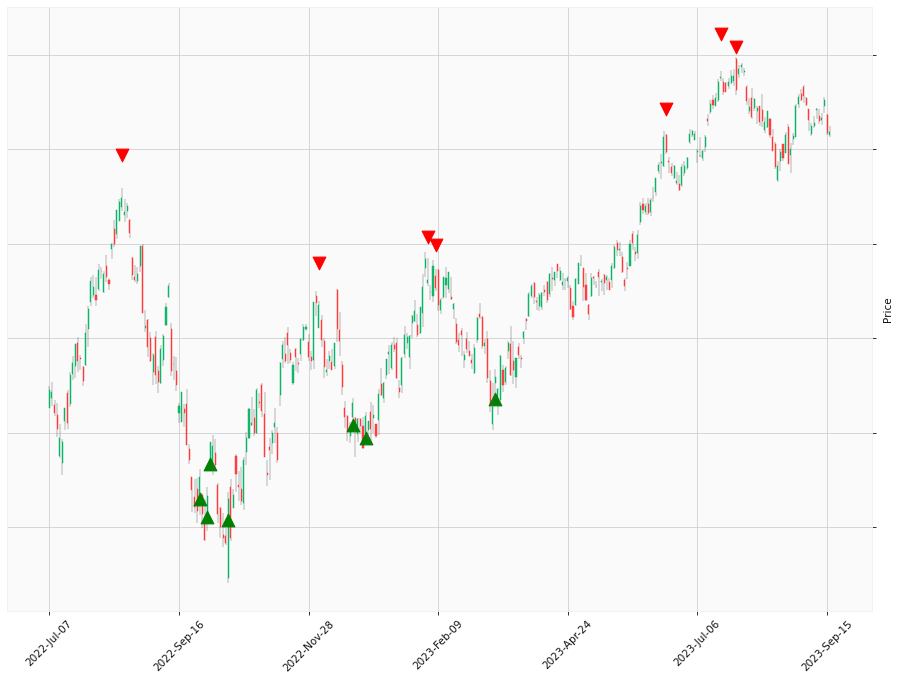
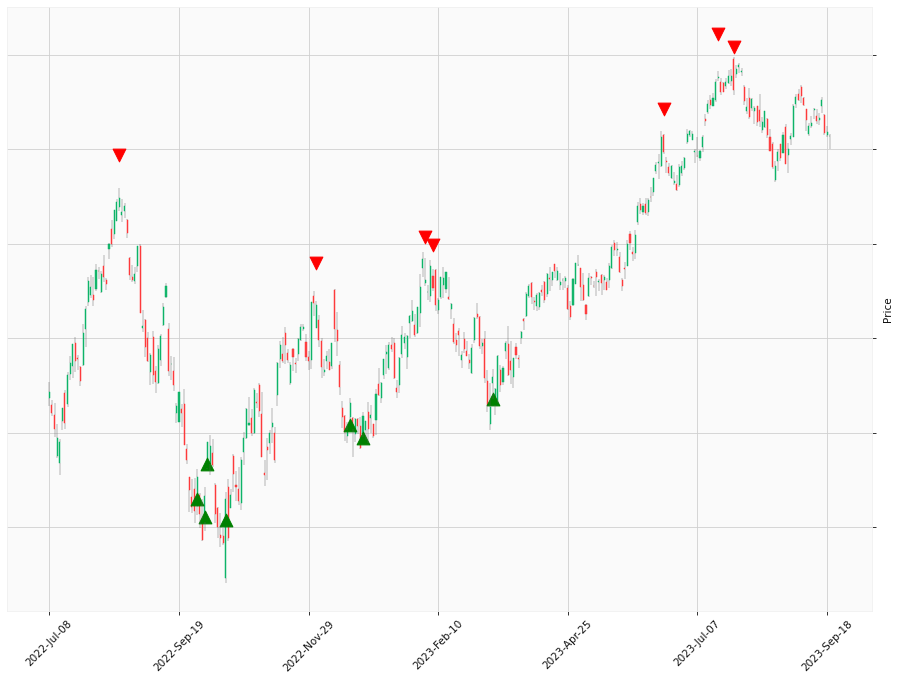
See https://github.com/HappyLabz/HappyLabz_v1/commit/d0e2ac6c34a9aaead226d4639160bddcce6f0603 from refs/heads/main

diff --git a/index.md b/index.md
@@ -101,7 +101,7 @@
         <h2 id="aapl"><a href="{% link navigation/blocked.md %}">AAPL</a></h2>
         <ul>
             <li>DAY: <b><span style="color: #b91c1c;">Short</span></b> at 177.56 as of close <br>Sep 07 2023</li>
-            <li>DELTA: <b><span style="color: #167816;">0.43 (0.24%)</span></b> as of close<br>Sep 18 2023</li>
+            <li>DELTA: <b><span style="color: #167816;">0.43 (0.24%)</span></b> as of close<br>Sep 19 2023</li>
             <li>WEEK: <b><span style="color: #167816;">Long</span></b> at 134.76 as of close <br>Jan 13 2023</li>
         </ul>
     </div>
@@ -109,7 +109,7 @@
         <h2 id="amzn"><a href="{% link navigation/blocked.md %}">AMZN</a></h2>
         <ul>
             <li>DAY: <b><span style="color: #b91c1c;">Short</span></b> at 139.98 as of close <br>Sep 18 2023</li>
-            <li>DELTA: <b><span style="color: #b91c1c;">0.00 (0.00%)</span></b> as of close<br>Sep 18 2023</li>
+            <li>DELTA: <b><span style="color: #b91c1c;">0.00 (0.00%)</span></b> as of close<br>Sep 19 2023</li>
             <li>WEEK: <b><span style="color: #167816;">Long</span></b> at 98.12 as of close <br>Jan 13 2023</li>
         </ul>
     </div>
@@ -117,7 +117,7 @@
         <h2 id="msft"><a href="{% link navigation/blocked.md %}">MSFT</a></h2>
         <ul>
             <li>DAY: <b><span style="color: #b91c1c;">Short</span></b> at 338.05 as of close <br>Jun 20 2023</li>
-            <li>DELTA: <b><span style="color: #b91c1c;">-8.99 (-2.66%)</span></b> as of close<br>Sep 18 2023</li>
+            <li>DELTA: <b><span style="color: #b91c1c;">-8.99 (-2.66%)</span></b> as of close<br>Sep 19 2023</li>
             <li>WEEK: <b><span style="color: #167816;">Long</span></b> at 241.22 as of close <br>Nov 18 2022</li>
         </ul>
     </div>
@@ -125,7 +125,7 @@
         <h2 id="tsla"><a href="{% link TSLA.md %}">TSLA <span style="color:#0369a1;">&bigstar;</span></a></h2>
         <ul>
             <li>DAY: <b><span style="color: #b91c1c;">Short</span></b> at 256.60 as of close <br>Jun 23 2023</li>
-            <li>DELTA: <b><span style="color: #167816;">8.61 (3.36%)</span></b> as of close<br>Sep 18 2023</li>
+            <li>DELTA: <b><span style="color: #167816;">9.83 (3.83%)</span></b> as of close<br>Sep 19 2023</li>
             <li>WEEK: <b><span style="color: #167816;">Long</span></b> at 177.90 as of close <br>Jan 27 2023</li>
         </ul>
     </div>
@@ -133,7 +133,7 @@
         <h2 id="spy"><a href="{% link navigation/blocked.md %}">SPY</a></h2>
         <ul>
             <li>DAY: <b><span style="color: #b91c1c;">Short</span></b> at 452.49 as of close <br>Jul 27 2023</li>
-            <li>DELTA: <b><span style="color: #b91c1c;">-8.85 (-1.96%)</span></b> as of close<br>Sep 18 2023</li>
+            <li>DELTA: <b><span style="color: #b91c1c;">-9.74 (-2.15%)</span></b> as of close<br>Sep 19 2023</li>
             <li>WEEK: <b><span style="color: #167816;">Long</span></b> at 374.29 as of close <br>Oct 21 2022</li>
         </ul>
     </div>

diff --git a/TSLA.md b/TSLA.md
@@ -88,9 +88,9 @@
         <td>7</td>
         <td>Short</td>
         <td>Jun 23 2023 Close</td>
-        <td>3.36 %</td>
-        <td>195.24 %</td>
-        <td>369.87 %</td>
+        <td>3.83 %</td>
+        <td>194.76 %</td>
+        <td>367.56 %</td>
     </tr>
     
 </table>
@@ -106,23 +106,23 @@
     <tbody>
         <tr>
             <td>TSLA (Buy and Hold)</td>
-            <td>2022-08-05 Close <b>-</b> 2023-09-18 Close</td>
-            <td>-7.97 %</td>
+            <td>2022-08-05 Close <b>-</b> 2023-09-19 Close</td>
+            <td>-7.54 %</td>
         </tr>
         <tr>
             <td>TSLA (HLT Cumulative % Gain)</td>
-            <td>2022-08-05 Close <b>-</b> 2023-09-18 Close</td>
-            <td>195.24 %</td>
+            <td>2022-08-05 Close <b>-</b> 2023-09-19 Close</td>
+            <td>194.76 %</td>
         </tr>
         <tr>
             <td>TSLA (HLT Reinvested % Gain)</td>
-            <td>2022-08-05 Close <b>-</b> 2023-09-18 Close</td>
-            <td>369.87 %</td>
+            <td>2022-08-05 Close <b>-</b> 2023-09-19 Close</td>
+            <td>367.56 %</td>
         </tr>
         <tr>
             <td>S&P 500 (Buy and Hold)</td>
-            <td>2022-08-05 Close <b>-</b> 2023-09-18 Close</td>
-            <td>7.30 %</td>
+            <td>2022-08-05 Close <b>-</b> 2023-09-19 Close</td>
+            <td>7.08 %</td>
         </tr>
     </tbody>
 </table>

diff --git a/SPY.md b/SPY.md
@@ -144,9 +144,9 @@
         <td>14</td>
         <td>Short</td>
         <td>Jul 27 2023 Close</td>
-        <td>-1.96 %</td>
-        <td>51.90 %</td>
-        <td>63.34 %</td>
+        <td>-2.15 %</td>
+        <td>52.09 %</td>
+        <td>63.65 %</td>
     </tr>
     
 </table>
@@ -162,23 +162,23 @@
     <tbody>
         <tr>
             <td>SPY (Buy and Hold)</td>
-            <td>2022-08-16 Close <b>-</b> 2023-09-18 Close</td>
-            <td>3.24 %</td>
+            <td>2022-08-16 Close <b>-</b> 2023-09-19 Close</td>
+            <td>3.04 %</td>
         </tr>
         <tr>
             <td>SPY (HLT Cumulative % Gain)</td>
-            <td>2022-08-16 Close <b>-</b> 2023-09-18 Close</td>
-            <td>51.90 %</td>
+            <td>2022-08-16 Close <b>-</b> 2023-09-19 Close</td>
+            <td>52.09 %</td>
         </tr>
         <tr>
             <td>SPY (HLT Reinvested % Gain)</td>
-            <td>2022-08-16 Close <b>-</b> 2023-09-18 Close</td>
-            <td>63.34 %</td>
+            <td>2022-08-16 Close <b>-</b> 2023-09-19 Close</td>
+            <td>63.65 %</td>
         </tr>
         <tr>
             <td>S&P 500 (Buy and Hold)</td>
-            <td>2022-08-16 Close <b>-</b> 2023-09-18 Close</td>
-            <td>3.24 %</td>
+            <td>2022-08-16 Close <b>-</b> 2023-09-19 Close</td>
+            <td>3.04 %</td>
         </tr>
     </tbody>
 </table>

diff --git a/AMZN_1w.md b/AMZN_1w.md
@@ -146,7 +146,7 @@
         <tr>
             <td>S&P 500 (Buy and Hold)</td>
             <td>2018-09-07 Close <b>-</b> 2023-09-18 Close</td>
-            <td>54.26 %</td>
+            <td>54.25 %</td>
         </tr>
     </tbody>
 </table>

diff --git a/MSFT_1w.md b/MSFT_1w.md
@@ -122,7 +122,7 @@
         <tr>
             <td>S&P 500 (Buy and Hold)</td>
             <td>2021-02-26 Close <b>-</b> 2023-09-18 Close</td>
-            <td>16.64 %</td>
+            <td>16.63 %</td>
         </tr>
     </tbody>
 </table>
